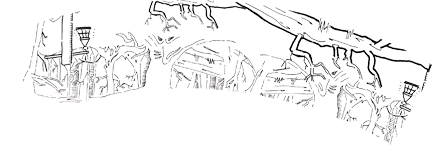
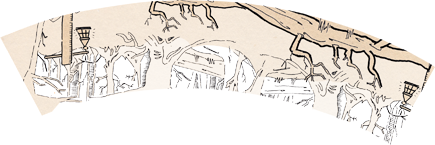
fixing shadow text (BLOCK doesn´t work)

diff --git a/src/Games/Oca/Oca.cpp b/src/Games/Oca/Oca.cpp
@@ -34,6 +34,7 @@ void Oca::init(ofRectangle _space){
     fbo.end();
 
     mask.loadImage("Oca/mask.png");
+    maskBack.loadImage("Oca/mask-back-90.png");
     background.loadImage("Oca/background.jpg");
     
     text.setFromCenter(space.x+space.width*0.5, 
@@ -55,7 +56,7 @@ void Oca::reset(){
     //  Setup spacial backgrounds
     //
     forestBackground.set( places[10]->getBoundingBox() );
-    forestBackground.setZoom(60);
+    forestBackground.setZoom(30);
     forestBackground.clear();
     dragonBackground.set( places[25]->getBoundingBox() );
     dragonBackground.clear();
@@ -100,6 +101,7 @@ bool Oca::loadPlaces(string _xmlConfigFile){
             }
             
             newPlace->setScale( scaleFactor );
+            newPlace->setLoop( XML.getValue("loop", false) );
             newPlace->setAngle( XML.getValue("angle", 0.0) );
             newPlace->setImage( XML.getValue("baseImage", "00.png") );
             
@@ -153,7 +155,6 @@ void Oca::update(){
         }
         
         if (passed){
-            //places[i]->turnTo( 1.0 );
             places[i]->turnToMax();
         } else {
             places[i]->turnTo( 0.0 );
@@ -171,10 +172,10 @@ void Oca::update(){
 }
 
 void Oca::updateBackground(int _placeNumber, ofxTint& _backgroundEffect){
-    _backgroundEffect.setFade( 0.2 + (1.0- ofClamp(places[10]->getState(), 0.0, 1.0) ) *0.8  ); 
+    _backgroundEffect.setFade( 0.2 + (1.0- ofClamp(places[_placeNumber]->getState(), 0.0, 1.0) ) *0.8  ); 
     
     if (places[_placeNumber]->getState() < 0.01)
-        forestBackground.clear();
+        _backgroundEffect.clear();
     
     _backgroundEffect.begin();
         ofTranslate(-places[_placeNumber]->getBoundingBox().x,
@@ -233,19 +234,22 @@ void Oca::render(){
     
     //  Draw the deck mask
     //
-    ofSetColor(255,(1.0-ofMap( text.getNormTransitionValue(), 0.0, 0.5, 0.0, 1.0, true)) * 255);
+    ofSetColor(255, 255);
+    //ofSetColor(255,(1.0-ofMap( text.getNormTransitionValue(), 0.0, 0.5, 0.0, 1.0, true)) * 255);
     mask.draw(space);
     
     //  Draw text
     //
-    ofPushMatrix();
-    ofTranslate(space.getCenter());
-    ofRotateZ( textAngle );
+    ofSetColor(255,ofMap( text.getNormTransitionValue(), 0.0, 0.5, 0.0, 1.0, true) * 255);
+    maskBack.draw(space);
+    
+    //ofPushMatrix();
+    //ofTranslate(space.getCenter());
+    //ofRotateZ( textAngle );
+    //ofTranslate(-space.getCenter().x,-space.getCenter().y);
     ofSetColor(0,ofMap( text.getNormTransitionValue(), 0.0, 0.5, 0.0, 1.0, true) * 255);
-    ofTranslate(-space.getCenter().x,
-                -space.getCenter().y);
     text.draw();
-    ofPopMatrix();
+    //ofPopMatrix();
     
     //  Draw the ficha
     //

diff --git a/src/Games/InkAnimation.h b/src/Games/InkAnimation.h
@@ -18,15 +18,32 @@
 class InkAnimation: public ofRectangle {
 public:
     InkAnimation(){
-        
+        x = 0;
+        y = 0;
+        width = 0;
+        height = 0;
     }
     
     InkAnimation(ofRectangle const & _rect){
         set(_rect);
     }
+    
+    void set (float px, float py, float w, float h){
+        x		= px;
+        y		= py;
+        width	= w;
+        height	= h;
+        
+        blur.allocate( width , height );
+        tint.allocate( width , height );
+        tint.setZoom(60);
+    }
 
     void    set( ofRectangle const & _rect){
-        ofRectangle::set(_rect);
+        x = _rect.x;
+        y = _rect.y;
+        width = _rect.width;
+        height = _rect.height;
         
         blur.allocate( width , height );
         tint.allocate( width , height );
@@ -39,13 +56,13 @@ public:
         
         begin();
         ofPushMatrix();
-        ofTranslate(getCenter().x - _tSeq.width*0.5,
-                    getCenter().y - _tSeq.height*0.5);
+        //ofTranslate(getCenter().x - _tSeq.width*0.5,getCenter().y - _tSeq.height*0.5);
         ofEnableBlendMode(OF_BLENDMODE_ALPHA);
         ofClear(0, 255);
         ofSetColor( ofMap( _tSeq.getNormTransitionValue(), 0.0, 0.5, 0.0, 1.0, true) * 255,255);
-        
+        //ofDrawBitmapString("TEST", ofPoint(width*0.5,height*0.5));
         _tSeq.draw();
+        
         ofDisableBlendMode();
         ofPopMatrix();
         end();
@@ -81,6 +98,7 @@ public:
     }
     
     void draw(){
+        //ofSetColor(255,255);
         tint.getTextureReference().draw(x,y,width,height);
     }
     

diff --git a/src/Games/TextSequencer.h b/src/Games/TextSequencer.h
@@ -32,14 +32,13 @@ public:
     TextSequencer();
     
     bool    loadSequence(string _xmlFile);
-    void    play(){ bPlay = true; };
-    void    stop(){ bPlay = false;};
     
     virtual void    setSpeed(float _speed){ speed = _speed;};
     virtual void    setSecForChar( float _secForChar){ secForChar = _secForChar; };
     virtual void    setSecBetweenPhrases( float _secBetweenPhrase){ secBetweenPhrase = _secBetweenPhrase;};
     virtual void    setNextPhrase(textPhrase &_phrase );
     
+    virtual string  getText(){return rawText;};
     virtual float   getNormTransitionValue();
     
     virtual void    update();
@@ -67,7 +66,6 @@ protected:
 private:
     vector<textPhrase>  script;
     int                 currentLine;
-    bool                bPlay;
 };
 
 #endif

diff --git a/src/Games/TextSequencer.cpp b/src/Games/TextSequencer.cpp
@@ -18,7 +18,6 @@ TextSequencer::TextSequencer(){
     defaultFontDpi      =   90;
     defaultShape        =   OF_TEXT_SHAPE_BLOCK;
     
-    bPlay       = false;
     text        = NULL;
 }
 
@@ -210,11 +209,11 @@ void TextSequencer::draw(){
 }
 
 float TextSequencer::getNormTransitionValue(){ 
-    if ( bWaiting || ( rawText == " ") || (text == NULL) ){
-        return 0;
-    } else {  
+    //if ( bWaiting || ( rawText == " ") || (text == NULL) ){
+    //    return 0;
+    //} else {  
         return sin( (countDown/seconds) * PI );
-    }
+    //}
 };
 
 string TextSequencer::spinningString(string _orginalText, int _nChars, int _offset){

diff --git a/src/Games/Shadows/Shadows.cpp b/src/Games/Shadows/Shadows.cpp
@@ -41,8 +41,14 @@ void Shadows::init(ofRectangle _space){
     blur.allocate(width,height);
     
     text.loadSequence("shadows/texto.xml");
-    text.set(0, 0, space.width*0.8, space.height*0.8);
-    textAnimation.set( space );
+    text.set(0,0,space.width*0.8, space.height*0.8);
+    ofRectangle area;
+    area.setFromCenter(space.x+space.width*0.5, 
+                       space.y+space.height*0.5,
+                       text.width,
+                       text.height);
+    
+    textAnimation.set(area);
     
     //  Clean the variables and the start
     //

diff --git a/src/Games/Oca/Place.h b/src/Games/Oca/Place.h
@@ -21,6 +21,7 @@ public:
     void    setAngle(float _angle){ angle = _angle;};
     void    setState(float _state){ nState = _state;};
     void    setImage(string _imgFile);
+    void    setLoop(bool _loop = false){ bLoop = _loop;};
     void    setMessage(string _message){ message = _message;};
     
     float   getState(){return nState;};
@@ -46,7 +47,7 @@ private:
     
     int     turnToState;
     int     nId;
-    bool    bAnimated;
+    bool    bAnimated, bLoop;
 };
 
 #endif

diff --git a/src/Games/Oca/Place.cpp b/src/Games/Oca/Place.cpp
@@ -11,6 +11,7 @@ Place::Place(){
     angle       =   0.0;
     nState      =   1.0;
     turnToState =   1;
+    bLoop       =   false;
     bAnimated   =   false;
 }
 
@@ -18,6 +19,7 @@ Place::Place( int _nId ){
     angle       =   0.0;
     nState      =   1.0;
     turnToState =   1;
+    bLoop       =   false;
     bAnimated   =   false;
     setId(_nId);
 }

diff --git a/src/Games/TextMessager.cpp b/src/Games/TextMessager.cpp
@@ -157,3 +157,11 @@ void TextMessager::draw(){
             ofLog(OF_LOG_ERROR,"Text trying to be render with out loading it");
     } 
 }
+
+float TextMessager::getNormTransitionValue(){ 
+    if ( bWaiting || ( rawText == " ") || (text == NULL) ){
+        return 0;
+    } else {  
+        return sin( (countDown/seconds) * PI );
+    }
+};

diff --git a/src/Games/TextMessager.h b/src/Games/TextMessager.h
@@ -21,12 +21,13 @@ public:
     
     bool    loadStyle(string _xmlFile);
     
+    float   getNormTransitionValue();
+    
     void    addMessage(string _message );
     void    addMessage( textPhrase &_phrase );
     
     void    update();
     void    draw();
-    
 private:
     textPhrase  message;
     bool        bMessage;

diff --git a/src/Games/Oca/Oca.h b/src/Games/Oca/Oca.h
@@ -47,7 +47,7 @@ private:
     
     ofxTint         dragonBackground;
     ofxTint         forestBackground;
-    ofImage         background, mask;
+    ofImage         background, mask, maskBack;
     ofImage         obj09, obj17;
     vector<Place*>  places;
     
